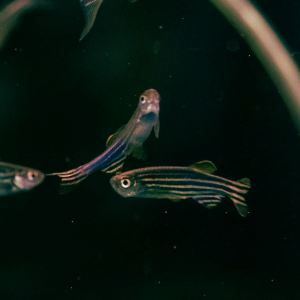
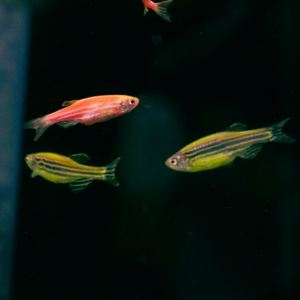
removed unused images; add 斑马鱼 and 小丑鱼

diff --git a/extra_chars/鱼.md b/extra_chars/鱼.md
@@ -5,6 +5,8 @@
 | | 乌贼; 墨鱼 | wūzéi; mòyú | cuttlefish | ![乌贼](./鱼/乌贼.jpg) | | [Wikimedia](https://commons.wikimedia.org/wiki/File:Sepia_officinalis_(aquarium).jpg) |
 | | 人鱼 | rényú | mermaid | ![人鱼](./鱼/人鱼.jpg) | | [Pexels](https://www.pexels.com/photo/a-woman-in-a-mermaid-costume-19058996/) |
 | | 大比目鱼 | dàbǐmùyú | halibut | ![大比目鱼](./鱼/大比目鱼.jpg) | | [Wikimedia](https://commons.wikimedia.org/wiki/File:Halibut_korea.jpg) |
+| | 小丑鱼 | xiǎochǒuyú | clownfish | ![小丑鱼](./鱼/小丑鱼.jpg) | | [Pexels](https://www.pexels.com/photo/close-up-photo-of-clownfish-underwater-6023997/) |
+| | 斑马鱼 | bānmǎyú | zebrafish | ![斑马鱼](./鱼/斑马鱼.jpg) | | [Pexels](https://www.pexels.com/photo/small-fish-in-aquarium-18435519/) |
 | | 水母; 海蜇 | shuǐmǔ; hǎizhé | jellyfish | ![水母](./鱼/水母.jpg) | | [Pexels](https://www.pexels.com/photo/pink-jellyfish-137616/) |
 | | 沙丁鱼 | shādīngyú | sardine | ![沙丁鱼](./鱼/沙丁鱼.jpg) | | [Pexels](https://www.pexels.com/photo/close-up-shot-of-a-can-of-sardines-on-a-yellow-surface-6901802/) |
 | | 海参 | hǎishēn | sea cucumber | ![海参](./鱼/海参.jpg) | | [Pexels](https://www.pexels.com/photo/person-holding-a-warty-sea-cucumber-8824660/) |
@@ -44,7 +46,7 @@
 | 鲱 | 鲱鱼 | fēiyú | herring | ![鲱鱼](./鱼/鲱鱼.jpg) | | [Pexels](https://www.pexels.com/photo/fishes-on-a-market-16664053/) |
 | 鲲 | 鲲 | kūn | giant flying fish | ![鲲](./鱼/鲲.png) | mythological; transforms into bird 鹏 | [Gemini AI](https://gemini.google.com/share/025fdbee4cb9) |
 | 鲳 | 鲳鱼 | chāngyú | butterfish | ![鲳鱼](./鱼/鲳鱼.jpg) | | [Pexels](https://www.pexels.com/photo/a-fish-on-a-cutting-board-with-vegetables-lying-around-18907099/) |
-| 鲶; 鲇 | 鲶鱼; 鲇鱼 | niányú; niányú | sheatfish; catfish | ![鲇鱼](./鱼/鲇鱼.jpg) | | [Wikimedia](https://commons.wikimedia.org/wiki/File:EuropeseMeervalLucasVanDerGeest.jpg) |
+| 鲶; 鲇 | 鲶鱼; 鲇鱼 | niányú; niányú | sheatfish; catfish | ![鲶鱼](./鱼/鲶鱼.jpg) | | [Wikimedia](https://commons.wikimedia.org/wiki/File:EuropeseMeervalLucasVanDerGeest.jpg) |
 | 鲷 | 鲷鱼 | diāoyú | sea bream; snapper | ![鲷鱼](./鱼/鲷鱼.jpg) | | [Pexels](https://www.pexels.com/photo/close-up-shot-of-fish-in-the-market-10112455/) |
 | 鲸 | 鲸鱼 | jīngyú | whale | ![鲸鱼](./鱼/鲸鱼.jpg) | 蓝鲸 (blue whale), 座头鲸 (humpback whale), 抹香鲸 (sperm whale), 虎鲸 (orca; killer whale), 白鲸 (beluga whale), etc. | [Pexels](https://www.pexels.com/photo/black-and-white-dolphin-on-body-of-water-during-daytime-51964/) |
 | 鲻 | 鲻鱼 | zīyú | mullet | ![鲻鱼](./鱼/鲻鱼.jpg) | | [Pexels](https://www.pexels.com/photo/fish-catch-2792153/) |

diff --git a/extra_chars/虫.md b/extra_chars/虫.md
@@ -84,4 +84,3 @@
 | | 象鼻虫 | xiàngbíchóng | weevil | ![象鼻虫](./虫/象鼻虫.jpg) | | [Wikimedia](https://commons.wikimedia.org/wiki/File:Curculionidae_Tignerone_02.jpg) |
 | | 马陆; 千足虫 | mǎlù; qiānzúchóng | millipede | ![马陆](./虫/马陆.jpg) | the character 蚂 (in ant 蚂蚁) evolved from 马, but for 马陆 the 马 didn't change to 蚂 | [Pexels](https://www.pexels.com/photo/a-black-caterpillar-crawling-on-stick-14465943/) |
 
-
